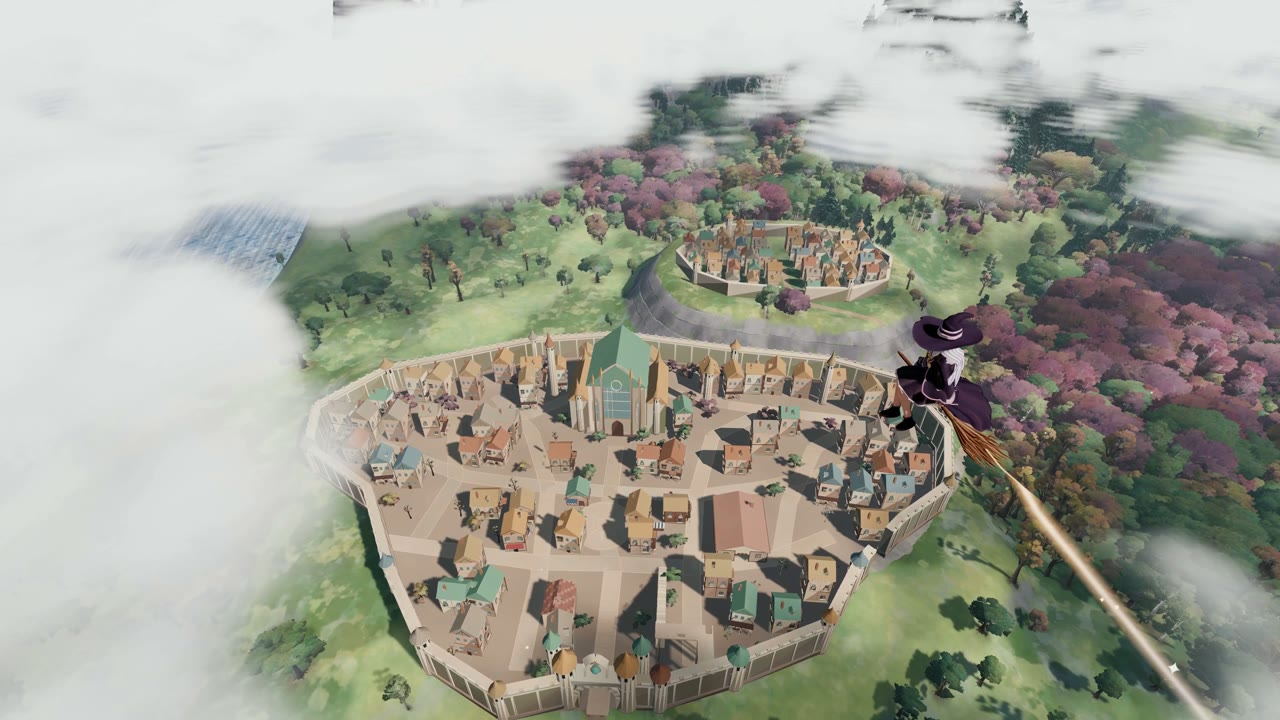
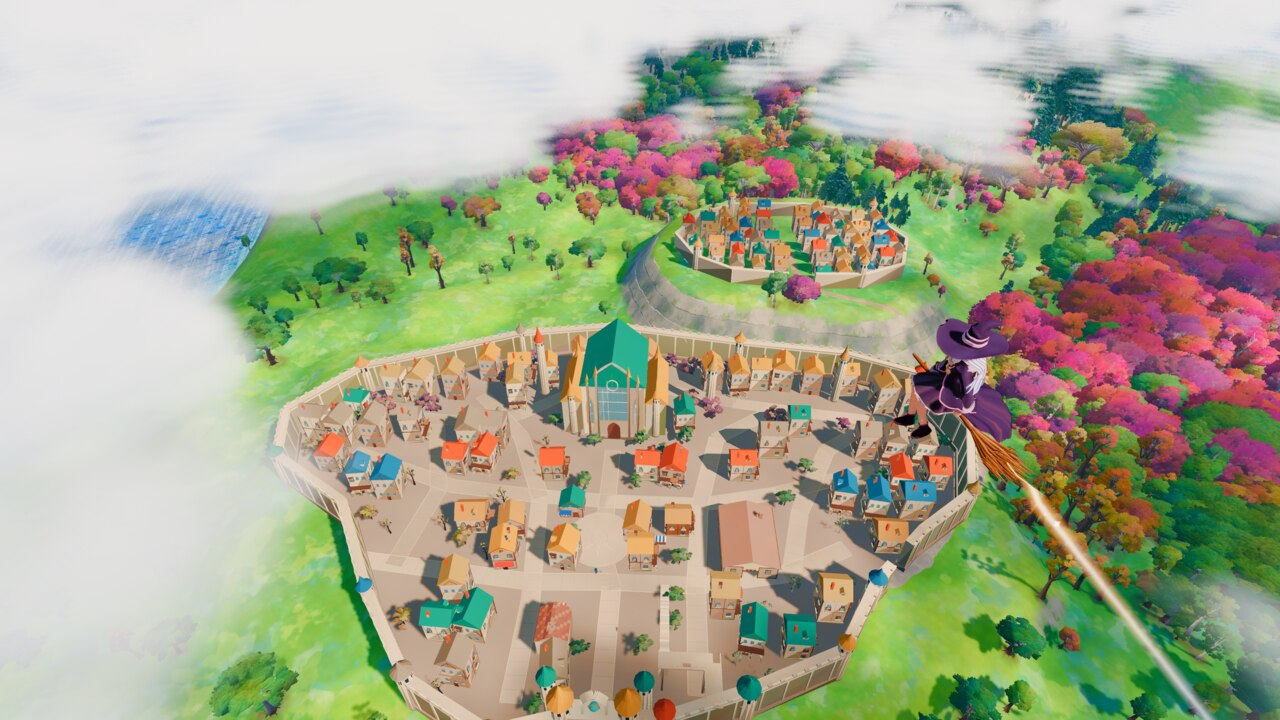
Tune daylight and landscape colours and publish the playable web build

diff --git a/src/render/post.js b/src/render/post.js
@@ -166,7 +166,7 @@ void main() {
 const GRADE_FRAG = /* glsl */`
 uniform sampler2D tDiffuse;
 uniform vec3 uLift, uGain, uVigCol, uFlash;
-uniform float uSat, uContrast, uVig, uGradeOn, uVib, uSharp, uSatKnee;
+uniform float uSat, uContrast, uMidLift, uVig, uGradeOn, uVib, uSharp, uSatKnee;
 uniform vec3 uShTint;
 uniform vec2 uTexel;
 varying vec2 vUv;
@@ -191,14 +191,23 @@ void main() {
   if (uGradeOn > 0.5) {
     c = uGain * (c + uLift * (1.0 - c));
     float l = dot(c, vec3(0.2126, 0.7152, 0.0722));
-    float sat = max(c.r, max(c.g, c.b)) - min(c.r, min(c.g, c.b));
-    c = mix(vec3(l), c, uSat + uVib * (1.0 - sat) * (1.0 - sat));
-    // saturation knee (look round): the loudest colours (pure vermilion, grass green) are pulled back, muted ones kept
-    c = mix(vec3(l), c, 1.0 - uSatKnee * smoothstep(0.3, 0.85, sat));
+    float hi = max(c.r, max(c.g, c.b)), lo = min(c.r, min(c.g, c.b));
+    float chroma = hi - lo;
+    // Pastel flowers, grass and sky gain the most colour. Taper the gain on
+    // bright peach tones (skin), near-white silver hair and sunlit cloud tops.
+    float peach = smoothstep(.018, .105, c.r - c.g) * smoothstep(.0, .06, c.g - c.b)
+                * smoothstep(.40, .68, l) * (1.0 - smoothstep(.28, .51, chroma));
+    float mids = smoothstep(.035, .15, l) * (1.0 - smoothstep(.85, .985, l));
+    float quiet = 1.0 - smoothstep(.08, .65, chroma);
+    float scale = 1.0 + (uSat - 1.0 + uVib * quiet) * mids * (1.0 - .9 * peach);
+    scale *= 1.0 - uSatKnee * smoothstep(.36, .9, chroma);
+    // Increase chroma along one hue ray, only as far as both bounds of sRGB allow.
+    float room = min(l / max(l - lo, .0001), (1.0 - l) / max(hi - l, .0001));
+    c = mix(vec3(l), c, min(scale, max(1.0, room)));
     // Shape luminance around middle grey, leaving black and white fixed.
     // The same brightness adjustment on all channels keeps blush and roof tiles in hue.
     float lum = clamp(dot(c,vec3(.2126,.7152,.0722)),0.,1.);
-    float delta = 4.*(uContrast-1.)*lum*(1.-lum)*(lum-.5);
+    float delta = lum*(1.-lum)*(4.*(uContrast-1.)*(lum-.5) + uMidLift*(2.-lum));
     if(delta<0.) c *= 1.+delta/max(.0001,lum);
     else c += (1.-c)*delta/max(.0001,1.-lum);
     // split tone: the land's colour sinks into the shadows only; mid-tones (skin) and whites (the kosode) stay clean
@@ -269,10 +278,10 @@ export const GRADES = {
   // vib = vibrance: extra saturation for the muted colours only (skin and already-vivid colours are left alone)
   // knee (look round) = how much the loudest colours are pulled back; gain warms the lights, sh cools the darks; lift is
   // kept tiny so the darks stay dark (a raised black was half of the old flat look); the vignette is the faintest touch
-  neutral: { lift: [0, 0, 0], gain: [1, 1, 1], sh: [1, 1, 1], sat: 1, vib: 0, knee: 0, contrast: 1, vig: 0, vigCol: [1, 1, 1] },
-  sun: { lift: [0.0, 0.002, 0.008], gain: [1.005, 1.0, 0.995], sh: [0.98, 0.995, 1.03], sat: 1.0, vib: 0.05, knee: 0.15, contrast: 1.25, vig: 0.12, vigCol: [0.86, 0.9, 0.98] },
-  dusk: { lift: [0.012, 0.0, 0.024], gain: [1.025, 0.985, 0.96], sh: [0.99, 0.95, 1.06], sat: 1.0, vib: 0.07, knee: 0.25, contrast: 1.19, vig: 0.18, vigCol: [0.8, 0.66, 0.86] },
-  night: { lift: [0.0, 0.006, 0.02], gain: [1.01, 1.0, 0.99], sh: [0.95, 0.98, 1.08], sat: 1.0, vib: 0.06, knee: 0.2, contrast: 1.06, vig: 0.22, vigCol: [0.62, 0.68, 0.9] },
+  neutral: { lift: [0, 0, 0], gain: [1, 1, 1], sh: [1, 1, 1], sat: 1, vib: 0, knee: 0, contrast: 1, midLift: 0, vig: 0, vigCol: [1, 1, 1] },
+  sun: { lift: [0.0, 0.002, 0.008], gain: [1.005, 1.0, 0.995], sh: [0.98, 0.995, 1.03], sat: 1.49, vib: 0.65, knee: 0.14, contrast: 1.22, midLift: .07, vig: 0.12, vigCol: [0.86, 0.9, 0.98] },
+  dusk: { lift: [0.012, 0.0, 0.024], gain: [1.025, 0.985, 0.96], sh: [0.99, 0.95, 1.06], sat: 1.31, vib: 0.37, knee: 0.15, contrast: 1.20, midLift: .04, vig: 0.18, vigCol: [0.8, 0.66, 0.86] },
+  night: { lift: [0.0, 0.006, 0.02], gain: [1.01, 1.0, 0.99], sh: [0.95, 0.98, 1.08], sat: 1.09, vib: 0.13, knee: 0.16, contrast: 1.06, midLift: 0, vig: 0.22, vigCol: [0.62, 0.68, 0.9] },
 };
 
 class ScenePass extends Pass {
@@ -433,7 +442,7 @@ export function createPipeline(renderer, scene, camera, opt) {
     vertexShader: FS_VERT, fragmentShader: GRADE_FRAG, depthTest: false, depthWrite: false,
     uniforms: { tDiffuse: { value: null }, uLift: { value: new THREE.Vector3() }, uGain: { value: new THREE.Vector3(1, 1, 1) },
       uVigCol: { value: new THREE.Vector3(1, 1, 1) }, uFlash: { value: new THREE.Color(0, 0, 0) },
-      uSat: { value: 1 }, uContrast: { value: 1 }, uVig: { value: 0 }, uGradeOn: { value: 1 },
+      uSat: { value: 1 }, uContrast: { value: 1 }, uMidLift: { value: 0 }, uVig: { value: 0 }, uGradeOn: { value: 1 },
       uVib: { value: 0 }, uSatKnee: { value: 0 }, uTone: { value: opt.tone ?? 1 }, uToneExp: { value: 1.08 }, uToneCt: { value: 1.22 }, uToneSat: { value: 1.08 }, uShTint: { value: new THREE.Vector3(1, 1, 1) }, uSharp: { value: opt.sharpen ?? 0.6 }, uTexel: { value: new THREE.Vector2(1, 1) },
       uPre: { value: 0 } },
   });

diff --git a/src/world/flora/grass.js b/src/world/flora/grass.js
@@ -16,7 +16,7 @@ import { ATLAS_HALF } from '../../data/atlas.js';
 import * as THREE from 'three';
 import { toonGradient, hookMaterial } from '../../core/mats.js';
 import { POI } from '../../data/world.js';
-import { GROUND_TINT_GLSL, GRASS_TOP } from '../terrain/shader.js';
+import { GROUND_TINT_GLSL, GRASS_TOP, MEADOW } from '../terrain/shader.js';
 import { plotGLSL } from '../terrain/paddyLayout.js';
 import { flowerPatch, flowerVertex } from './meadowFlowers.js';
 import { BELL } from '../../data/bellcrown.js';
@@ -109,11 +109,11 @@ GG gGround(vec2 root, bool flower) {
   float wNight = smoothstep(0.56, 0.86, tv);
   float wDusk = max(0.0, 1.0 - wSun - wNight);
   // ground colour, exactly as the terrain paints it
-  vec3 gSun = mix(${lin(0x617e55)}, ${lin(0x90ae72)}, smoothstep(0.36, 0.64, n1));
-  gSun = mix(gSun, ${lin(0xb4bc7b)}, smoothstep(0.58, 0.8, n2) * 0.55);
-  gSun = mix(gSun, ${lin(0x597d60)}, smoothstep(0.55, 0.78, n0) * 0.45);
-  gSun = mix(gSun, ${lin(0x65937a)}, smoothstep(0.55, 0.72, n4) * 0.35);
-  gSun = mix(gSun, ${lin(0xb4bc7b)}, smoothstep(0.62, 0.75, n4 * 0.5 + n2 * 0.5) * 0.25);
+  vec3 gSun = mix(${MEADOW.sunDark}, ${MEADOW.sun}, smoothstep(0.36, 0.64, n1));
+  gSun = mix(gSun, ${MEADOW.sunLight}, smoothstep(0.58, 0.8, n2) * 0.55);
+  gSun = mix(gSun, ${MEADOW.sunDeep}, smoothstep(0.55, 0.78, n0) * 0.45);
+  gSun = mix(gSun, ${MEADOW.sunTeal}, smoothstep(0.55, 0.72, n4) * 0.35);
+  gSun = mix(gSun, ${MEADOW.sunLight}, smoothstep(0.62, 0.75, n4 * 0.5 + n2 * 0.5) * 0.25);
   vec3 gDusk = mix(${lin(0xa29a5c)}, ${lin(0xc8bb6a)}, smoothstep(0.36, 0.64, n1));
   gDusk = mix(gDusk, ${lin(0xa86a46)}, smoothstep(0.64, 0.8, n2) * 0.45);
   gDusk = mix(gDusk, ${lin(0x7c6a72)}, smoothstep(0.58, 0.8, n0) * 0.35);
@@ -121,7 +121,7 @@ GG gGround(vec2 root, bool flower) {
   gNight = mix(gNight, ${lin(0x274a4a)}, smoothstep(0.56, 0.78, n2) * 0.7);
   vec3 col = gSun * wSun + gDusk * wDusk + gNight * wNight;
   float hillW = exp(-dot(root - gHill.xy, root - gHill.xy) / (gHill.z * gHill.z));
-  col = mix(col, ${lin(0xb6b96c)}, hillW * 0.5 * smoothstep(0.35, 0.6, n2 + 0.2));
+  col = mix(col, ${MEADOW.hill}, hillW * 0.5 * smoothstep(0.35, 0.6, n2 + 0.2));
   col *= 0.9 + 0.12 * n3 + 0.08 * n4;
   // the terrain's large-scale tint (dry / lush, hollows, knolls, alpine): same inputs, so blades match the soil
   float curv = (gTex(gData, root + vec2(8.0, 0.0)).r + gTex(gData, root - vec2(8.0, 0.0)).r
@@ -436,14 +436,14 @@ vec3 gPos; vec3 gNrm; float gKill = 0.0;
   // converges on the colour the terrain paints under and beyond the blades (GRASS_TOP), so the hand-over has no line
   float clump = clumpN * 0.55 + cH * 0.45;
   // revision: fresher tips (green-white, not yellow), lighter cool roots: the olive came from yellow tips over near-black roots
-  vec3 tip = col * mix(vec3(.98, 1.13, .90), vec3(1.31, 1.35, 1.05), clump);
+  vec3 tip = col * mix(vec3(1.04, 1.11, 1.03), vec3(1.31, 1.34, 1.18), clump);
   tip *= mix(vec3(1.0),vec3(.74,1.05,.89),basal);
   tip *= mix(vec3(1.04, 1.0, 0.92), vec3(0.95, 1.0, 1.06), fract(cH * 5.3));
   float dryPick = fract(hA * 13.7);
   vec3 duskTip = dryPick < 0.45 ? ${lin(0xe0b450)} : dryPick < 0.75 ? ${lin(0xd0784a)} : ${lin(0xe8d08a)};
   tip = mix(tip, duskTip, wDusk * 0.85 * (1.0 - g.cropK));
   if (g.crop > 1.5 && g.crop < 2.5) tip = ${lin(0xf0d070)};
-  vec3 root0 = mix(col * vec3(0.44, 0.57, 0.63), col * vec3(0.66, 0.54, 0.44), wDusk);
+  vec3 root0 = mix(col * mix(vec3(0.44, 0.57, 0.63), vec3(0.64, 0.72, 0.84), wSun), col * vec3(0.66, 0.54, 0.44), wDusk);
   if (g.crop > 1.5 && g.crop < 2.5) root0 = ${lin(0x8a9a48)}; // wheat: green-gold stalk under a gold ear
   float tt = t * t;
   vGCol = mix(root0, tip, (g.crop > 1.5 && g.crop < 2.5) ? smoothstep(0.5, 0.72, t) : smoothstep(0.0, 1.0, t)) * (0.94 + 0.12 * aBlade.w);
@@ -452,8 +452,6 @@ vec3 gPos; vec3 gNrm; float gKill = 0.0;
   vGCol = mix(vGCol, vGCol * 1.2 + vec3(0.022, 0.026, 0.016), gSheen * t * 0.7);
   // far: the blade becomes a soft stroke of the ground colour, a little lighter toward its tip (never darker than the soil)
   vGCol = mix(vGCol, col * ${GRASS_TOP} * mix(0.98, 1.12, t) * (1.0 + 0.12 * gSheen), far * 0.9 * (1.0 - g.cropK));
-  // fresh but not loud: a touch of desaturation (sunlit slopes warm up through the key light, shade cools via the sky)
-  vGCol = mix(vec3(dot(vGCol, vec3(0.3, 0.55, 0.15))), vGCol, 0.9);
   vGCol = mix(vGCol, ${lin(0xe8f4ff)}, smoothstep(0.0, 0.6, g.sc.b) * 0.8);
   float pulse = 0.65 + 0.35 * sin(gTime * 0.9 + root.x * 0.05 + root.y * 0.04);
   vec3 veinC = mix(${lin(0x3de0c0)}, ${lin(0x9c7cff)}, smoothstep(0.3, 0.7, g.n.x));

diff --git a/src/world/terrain/shader.js b/src/world/terrain/shader.js
@@ -34,10 +34,10 @@ vec3 trGroundTint(vec3 col, float h, float curv, float n0, float n1, float n2, f
   // look round: the meadow as a painting: broad soft swells of lush cool green and sun-dried warm green, sunlit warm
   // crowns on the knolls, deeper cool green in the hollows
   float lush = smoothstep(0.3, 0.72, n2 * 0.6 + n1 * 0.4);
-  vec3 s = col * mix(vec3(1.06, 1.04, 0.9), vec3(0.88, 0.96, 0.97), lush);
+  vec3 s = col * mix(vec3(1.06, 1.04, 0.92), vec3(0.83, 1.01, 1.04), lush);
   s = mix(s, s * vec3(0.68, 0.86, 0.84), hollow * 0.7);
   s = mix(s, s * vec3(1.12, 1.08, 0.86), knoll * 0.5);
-  s = mix(s, ${lin(0xb2b468)} * (0.9 + 0.2 * n3), dryP * 0.3);
+  s = mix(s, ${lin(0xb7bf66)} * (0.9 + 0.2 * n3), dryP * 0.3);
   vec3 d = mix(col, col * vec3(0.7, 0.64, 0.7), hollow * 0.6);
   d = mix(d, d * vec3(1.12, 1.06, 0.92), dryP * 0.4);
   float ash = smoothstep(0.48, 0.68, n1 * 0.5 + n2 * 0.5 + knoll * 0.2);
@@ -134,13 +134,19 @@ vec3 trLand(vec3 c, float wd, float wn) {
 }
 `;
 
+// Both the actual blades and their distant terrain colour use these reflectances.
+export const MEADOW = {
+  sun: lin(0x8cc351), sunDark: lin(0x70a75b), sunLight: lin(0xb6ce69),
+  sunDeep: lin(0x55a475), sunTeal: lin(0x68ad7d), hill: lin(0xbac85b)
+};
+
 const C = {
-  sun: lin(0x90ae72), sunDark: lin(0x617e55), sunLight: lin(0xb4bc7b), sunDeep: lin(0x597d60), sunTeal: lin(0x65937a), hill: lin(0xb6b96c),
+  ...MEADOW,
   duskOchre: lin(0xa29a5c), duskGold: lin(0xc8bb6a), duskRed: lin(0xa86a46), duskPlum: lin(0x7c6a72),
   nightA: lin(0x2e3d4a), nightB: lin(0x222b38), nightTeal: lin(0x274a4a),
   sand: lin(0xf0dfae), sandB: lin(0xdcc690), sandWet: lin(0xb8a27a), seabed: lin(0x5e8c86),
   gravelA: lin(0xc9bda0), gravelB: lin(0xa39a86),
-  rock: lin(0xa29fa6), rockDark: lin(0x75717c), rockDusk: lin(0x8a7076), rockNight: lin(0x3e4152),
+  rock: lin(0xb8b6ab), rockDark: lin(0x7c8582), rockDusk: lin(0x8a7076), rockNight: lin(0x3e4152),
   snow: lin(0xf4f8ff), snowShade: lin(0xdde8fa),
   dirtA: lin(0xc6ab86), dirtB: lin(0xa58c6c), stoneA: lin(0xc2bcb0), stoneB: lin(0xa29c92), gravelW: lin(0xcfc6b3),
   paddyA: lin(0x9fdc5e), paddyB: lin(0x78c450), soilA: lin(0x9a6c46), soilB: lin(0x7a5236), grainA: lin(0xe2c35e), grainB: lin(0xc9a440),
@@ -232,8 +238,7 @@ float floralDrift = meadowRibbon(trP.xz,floralBroad,floralDetail);
 float floralWet = 1.0 - smoothstep(17.0,33.0,trRiver);
 float floralShade = smoothstep(.47,.70,floralBroad);
 float floralPick = smoothstep(.38,.62,texture2D(trNoise,trP.xz/52.0+.12).r);
-vec3 flowerTone = mix(vec3(.99,.70,.16),vec3(.94,.88,.73),floralPick);
-flowerTone = mix(flowerTone,vec3(.44,.43,.81),max(.86*floralShade,floralWet));
+vec3 flowerTone = meadowDayPetal(floralPick, floralShade, floralWet);
 flowerTone = mix(flowerTone,mix(vec3(.91,.22,.18),vec3(.96,.54,.15),floralPick),wDusk*(1.-.83*floralWet));
 flowerTone = mix(flowerTone,vec3(.43,.65,.79),wNight);
 float meadowRoom = smoothstep(3.15,5.5,trRoad)*smoothstep(9.5,13.,trRiver);

diff --git a/src/world/sky.js b/src/world/sky.js
@@ -176,7 +176,7 @@ function updateLampPools(cam, v, rdt) {
   box.x = ox; box.y = oz;
   LM.used = used; LM.bakes++;
 }
-const _grade = { lift: [0, 0, 0], gain: [0, 0, 0], sh: [1, 1, 1], sat: 1, vib: 0, knee: 0, contrast: 1, vig: 0, vigCol: [0, 0, 0] };
+const _grade = { lift: [0, 0, 0], gain: [0, 0, 0], sh: [1, 1, 1], sat: 1, vib: 0, knee: 0, contrast: 1, midLift: 0, vig: 0, vigCol: [0, 0, 0] };
 
 function lerpGrade(a, b, t, o) {
   for (let i = 0; i < 3; i++) {
@@ -186,6 +186,7 @@ function lerpGrade(a, b, t, o) {
     o.sh[i] = (a.sh?.[i] ?? 1) + ((b.sh?.[i] ?? 1) - (a.sh?.[i] ?? 1)) * t;
   }
   o.sat = a.sat + (b.sat - a.sat) * t; o.vib = (a.vib || 0) + ((b.vib || 0) - (a.vib || 0)) * t; o.knee = (a.knee || 0) + ((b.knee || 0) - (a.knee || 0)) * t; o.contrast = a.contrast + (b.contrast - a.contrast) * t; o.vig = a.vig + (b.vig - a.vig) * t;
+  o.midLift = a.midLift + (b.midLift - a.midLift) * t;
   return o;
 }
 
@@ -444,7 +445,7 @@ export const skySystem = {
     st.sun.intensity=SUN_INTENSITY*(1-overcast*.24)*weather.sunlight;
     // In clear daylight the sky fills the shaded facade. When the sun disappears
     // into stratus or below the horizon, the sky supplies a larger share of its light.
-    const daylightFill = .55 + .43 * overcast;
+    const daylightFill = .74 + .31 * overcast;
     st.hemi.intensity=(daylightFill+(1-daylightFill)*dark)*(1-.72*dark);
     U.mvHemiMul.value = st.hemi.intensity;
     pal('hemiSky', v, st.hemi.color);
@@ -468,7 +469,8 @@ export const skySystem = {
     st.shadow.update((G.player?.pos ? daylightFromVeil(veilAt(G.player.pos.x, G.player.pos.z)) : day)*weather.sunlight);
 
     // exposure (eye adaptation)
-    const target = (1+.09*dark)*_sc.exposure * (G.sky.exposure ?? 1) * (1 - rain * 0.12) * (1 + (st.ringBoost - 1) * 0.06);
+    const daylightExposure = 1 - .04 * weather.sunlight * (1 - .4 * overcast);
+    const target = daylightExposure*(1+.09*dark)*_sc.exposure * (G.sky.exposure ?? 1) * (1 - rain * 0.12) * (1 + (st.ringBoost - 1) * 0.06);
     st.exposure = st.exposure === 1 && !st._expInit ? target : damp(st.exposure, target, 1.8, rdt);
     st._expInit = true;
 
@@ -508,6 +510,7 @@ export const skySystem = {
     if (st.grade) g = GRADES[st.grade];
     else g = gradePhase < .5 ? lerpGrade(GRADES.sun, GRADES.dusk, smoothstep(.05,.5,gradePhase), _grade) : lerpGrade(GRADES.dusk, GRADES.night, smoothstep(.5,.92,gradePhase), _grade);
     gu.uLift.value.fromArray(g.lift); gu.uGain.value.fromArray(g.gain); gu.uVigCol.value.fromArray(g.vigCol); gu.uShTint.value.fromArray(g.sh || [1, 1, 1]);
+    gu.uMidLift.value = g.midLift;
     gu.uSat.value = g.sat; gu.uVib.value = g.vib || 0; gu.uSatKnee.value = g.knee || 0; gu.uContrast.value = g.contrast; gu.uVig.value = g.vig;
     gu.uGradeOn.value = post.flags.grade ? 1 : 0;
     gu.uFlash.value.copy(st.flashCol).multiplyScalar(fk * 0.45);

diff --git a/src/render/atmo.js b/src/render/atmo.js
@@ -11,9 +11,9 @@ import { VEIL, SUN_DIR, SUN_ANGULAR_RADIUS, MOON_ANGULAR_RADIUS } from '../world
 // v:            sunlit       early dusk    deep dusk     night
 const KEYS = [0, 0.38, 0.72, 1];
 const ROWS = {
-  skyZen:   { c: [0x267dcb, 0x546bad, 0x2e2a6c, 0x060a26], k: [1.05, 0.95, 0.7, 0.62] },
-  skyHor:   { c: [0xc1dfee, 0xf4c79f, 0xe58a84, 0x1a2452], k: [1.15, 1.1, 0.85, 0.62] },
-  fog:      { c: [0xc4dcec, 0xf3c39a, 0xb07a96, 0x17204a], k: [1.05, 1.0, 0.75, 0.6] },
+  skyZen:   { c: [0x288bc9, 0x546bad, 0x2e2a6c, 0x060a26], k: [1.05, 0.95, 0.7, 0.62] },
+  skyHor:   { c: [0x7bcde7, 0xf4c79f, 0xe58a84, 0x1a2452], k: [1.15, 1.1, 0.85, 0.62] },
+  fog:      { c: [0x77abc1, 0xf3c39a, 0xb07a96, 0x17204a], k: [1.05, 1.0, 0.75, 0.6] },
   // look round: a warmer key, and a much weaker sky fill (was k 1.25 / 1.3 / 1.9 / 3.2): the Sun (by day) and the Moon
   // key + lanterns (at night) shape the forms, the sky only fills the shade
   sunTint:  { c: [0xfff5eb, 0xffdfb7, 0xffc397, 0xff9a58], k: [1, 1, 1, 1] },
@@ -24,7 +24,7 @@ const ROWS = {
   cloudSh:  { c: [0x8faed1, 0x9d8cb5, 0x5e4682, 0x0e1430], k: [1.0, 0.95, 0.8, 0.5] },
   // look (v-look): multiplier on the ambient where the Sun does not reach -> coloured shadows (linear RGB, ~unit luminance):
   // clear blue in the meadow, violet-rose at dusk, deep indigo with a hint of teal at night
-  shadowTint: { lin: [[0.83, 0.93, 1.12], [0.94, 0.87, 1.10], [1.0, 0.86, 1.15], [0.82, 0.94, 1.19]] },
+  shadowTint: { lin: [[0.80, 0.98, 1.16], [0.94, 0.87, 1.10], [1.0, 0.86, 1.15], [0.82, 0.94, 1.19]] },
   // light the sunlit ground throws back up onto down- and side-facing surfaces (x the local sun colour)
   // night key: the cool light of the Moon wheel (look round), x the cel band, from the wheel's direction
   moonKey:  { c: [0x000000, 0x000000, 0x6c74c4, 0x86a2ff], k: [0, 0, 0.4, 0.64] },
@@ -37,7 +37,7 @@ const ROWS = {
 // stays at its authored value; the camera exposure keeps only a gentle 1.15 at night.
 // Bloom thresholds are soft-knee thresholds now (post.js), so strengths are higher than with the old hard cut.
 const SCALARS = [
-  [1.0, 0.42, 1.9, 0.42],
+  [1.0, 0.37, 2.05, 0.32],
   [1.0, 0.55, 1.6, 0.48],
   [1.0, 0.7, 1.1, 0.55],
   [1.15, 0.62, 1.0, 0.6],

diff --git a/src/world/flora/scatter.js b/src/world/flora/scatter.js
@@ -10,9 +10,9 @@ import { bellPaving } from '../../data/bellcrown.js';
 
 export const STRIDE = 16;
 const palette = values => values.map(value => new THREE.Color(value).toArray());
-const leaves = palette([0x779856, 0x8fab64, 0x74965b, 0xa1a868, 0x709566]);
+const leaves = palette([0x69a04f, 0x92b55a, 0x639451, 0xa5b557, 0x589761]);
 const crowns=Object.fromEntries(Object.entries(crownColors).map(([type,colors])=>[type,palette(colors)]));
-const petals = palette([0xe9d58e, 0xefd5bc, 0xc3a5ce, 0xe3bb71, 0xc5d8eb]);
+const petals = palette([0xf2cc62, 0xf1c3aa, 0xbf8bd8, 0xe9a54e, 0xaaccef]);
 const undergrowth = palette([0x859a56, 0x789d68, 0x93a76c, 0x739b5e]);
 const stone = palette([0xc1bca8, 0xadae9d, 0xc2bcab]);
 const neutral = [1, 1, 1];
@@ -93,12 +93,12 @@ export function scatter(world, density = 1) {
   }
   const lakeGroups=[
     [1817,-60,18,9,'birch',[0x9aba70,0xa4b779]],
-    [1661,-102,14,7,'maple1',[0xc17a54,0xc5915d,0xb5a15d]],
+    [1661,-102,14,7,'maple1',[0xcb7043,0xd38b45,0xc6a849]],
     [1747,25,11,7,'pine2',[0x456b67,0x53786d]],
     [1618,-31,6,3,'willow2',[0x91ab68,0xa6b978]],
     [1688,87,24,11,'birch',[0xa1b479,0x8eab65]],
     [1796,-189,30,13,'pine1',[0x516d6a,0x486260]],
-    [1568,-104,21,11,'maple1',[0xb88659,0xc79958]],
+    [1568,-104,21,11,'maple1',[0xc57a45,0xd4973f]],
     [1888,43,20,10,'willow1',[0x95ae67,0x839e65]]
   ];
   for(const [cx,cz,spread,count,key,pal] of lakeGroups){
@@ -131,7 +131,7 @@ export function scatter(world, density = 1) {
   // and slope. Their roots stay on the same four islands after the collapse.
   const reeds=palette([0x8f9d6d,0xa0a577,0x899d72]);
   const shoreFoliage=palette([0x76905e,0x849764,0x92a16b]);
-  const shoreFlowers=[palette([0xd7c299,0xe8d4a0]),palette([0xe3c3a4,0xc6a5ac]),palette([0xb4aaad,0xd4cbb4]),palette([0xcdd9bb,0xc6ccb3])];
+  const shoreFlowers=[palette([0xe5bc66,0xf1d594]),palette([0xf0b39a,0xcb92ad]),palette([0xb09ec5,0xe5ceb2]),palette([0xc8dfac,0xe0d0a5])];
   const lakeFloor=(x,z)=>trialViewHeight(x,z,floodedTrialHeight(x,z,world.baseHeightAt(x,z)),true);
   for(const [id,island] of TRIAL_LAKE.islands.entries()){
     let made=0;const want=Math.round((id===0?51:id===3?25:41)*(.65+density*.35));

diff --git a/src/index.template.html b/src/index.template.html
@@ -4,6 +4,11 @@
 <meta charset="utf-8">
 <meta name="viewport" content="width=device-width,initial-scale=1,maximum-scale=1,user-scalable=no">
 <title>魔女之旅</title>
+<link rel="icon" type="image/png" href="assets/textures/journey/elaina-icon.png">
+<meta name="description" content="扮演伊蕾娜，接受芙兰的试炼，骑扫帚穿过星痕湖与云海。免费在浏览器中游玩的《魔女之旅》非官方同人游戏。">
+<meta property="og:title" content="魔女之旅 · 骑帚旅行">
+<meta property="og:description" content="从森林小屋飞到魔法使之国。在浏览器开始一段骑帚旅程。">
+<meta property="og:image" content="https://weikezhang.cn/majo-no-tabitabi/preview.webp">
 <style>
   html, body { margin: 0; height: 100%; overflow: hidden; background: #05060d; color: #f3ead8;
     font-family: "PingFang SC", "Hiragino Sans GB", "Microsoft YaHei", "Noto Sans CJK SC", sans-serif;

diff --git a/src/world/water/glsl.js b/src/world/water/glsl.js
@@ -227,9 +227,9 @@ vec3 wShallow = ${lin(0x62e8d4)} * wSun + ${lin(0xf4b890)} * wDusk + ${lin(0x164
 vec3 wMid     = ${lin(0x1aaccc)} * wSun + ${lin(0xbc7490)} * wDusk + ${lin(0x0c2c46)} * wNight;
 vec3 wDeep    = ${lin(0x10528e)} * wSun + ${lin(0x553874)} * wDusk + ${lin(0x040e22)} * wNight;
 float wb1 = texture2D(wNoise, wP.xz / 83.0 + vec2(wt * 0.003, wt * 0.002)).b;
-wShallow=mix(wShallow,${lin(0x90c8a6)},basin*.86);
-wMid=mix(wMid,${lin(0x438d84)},basin*.79);
-wDeep=mix(wDeep,${lin(0x255a69)},basin*.88);
+wShallow=mix(wShallow,${lin(0x4cc69e)},basin*.86);
+wMid=mix(wMid,${lin(0x138f93)},basin*.79);
+wDeep=mix(wDeep,${lin(0x125674)},basin*.88);
 vec3 wBase = mix(wShallow, wMid, smoothstep(0.3, 3.5, wDepth));
 wBase = mix(wBase, wDeep, smoothstep(3.0, 14.0, wDepth + (wb1 - 0.5) * 3.0));
 wBase *= (0.9 + 0.2 * wb1)*mix(vec3(1.),vec3(.36,.48,.66),wAtmosphere.y);

diff --git a/src/world/builders/bellcrown.js b/src/world/builders/bellcrown.js
@@ -13,15 +13,15 @@ const H = BELL.y;
 const stone = mat.stone(0xd5c5ae),
   light = mat.plaster(0xeee1c5),
   foot = mat.stone(0xad9685);
-const tile = [0xb89661, 0xaf7851, 0x729c8a, 0xc79857, 0x758f9a, 0xa39887, 0xbd9e6a].map((c) => mat.tile(c));
+const tile = [0xc99456, 0xbf5b38, 0x358878, 0xd79d4c, 0x42768e, 0xa39179, 0xcaa15d].map((c) => mat.tile(c));
 const plaster = [light, mat.plaster(0xe7c5a4), mat.plaster(0xd6b398), mat.plaster(0xe2c7a5)];
 const wood = mat.wood(0x724e40),
   trim = mat.wood(0xac7955),
   dark = mat.paint(0x343940);
 const glass = mat.paint(0x71919a),
   brass = mat.metal(0xcd9a51),
-  blue = mat.cloth(0x485e7a),
-  red = mat.cloth(0xa64d42);
+  blue = mat.cloth(0x385d86),
+  red = mat.cloth(0xb24c42);
 const pave = mat.stone(0xb29d8c),
   street = mat.stone(0xc7b39b),
   border = mat.stone(0xe1caa4);

diff --git a/src/world/flora/meadowFlowers.js b/src/world/flora/meadowFlowers.js
@@ -111,10 +111,8 @@ vec3 gPos=vec3(0.0,-1.e4,0.0),gNrm=vec3(0.,1.,0.);
     gPos.xz+=rot*(form.xz*grow*(.96+.32*aBlade.w))+len*t2*(wind*.54+rot*vec2(.09,.02));
     gPos.y+=form.y*len*(1.-flatten*.68);
     vec3 green=mix(field.rgb*vec3(.53,.67,.54),vec3(.10,.26,.12),.36);
-    vec3 butter=vec3(.99,.70,.16), ivory=vec3(.94,.88,.73), lilac=vec3(.48,.39,.80);
     float mixColour=smoothstep(.38,.62,gN(root/52.+.12).r);
-    vec3 petal=mix(butter,ivory,mixColour*(1.-forest*.46));
-    petal=mix(petal,mix(lilac,vec3(.37,.51,.86),mixColour),max(forest*.86,wet));
+    vec3 petal=meadowDayPetal(mixColour,forest,wet);
     petal=mix(petal,mix(vec3(.91,.22,.18),vec3(.96,.54,.15),mixColour),dusk*(1.-.83*wet));
     vec3 moon=mix(vec3(.43,.74,.82),vec3(.58,.48,.86),mixColour);
     petal=mix(petal,moon,night);

diff --git a/src/render/veilhook.js b/src/render/veilhook.js
@@ -440,7 +440,7 @@ const FOG = /* glsl */`
   float mvFL = max( dot( mvFc, vec3( 0.2126, 0.7152, 0.0722 ) ), 1e-3 );
   float mvTL = mix( mvL, mvFL, 0.35 );
   float mvDuskW = saturate( 4.0 * mvFv * ( 1.0 - mvFv ) );
-  vec3 mvDepthTint = mix( mix( vec3( 0.62, 0.8, 1.18 ), vec3( 1.15, 0.86, 0.66 ), mvDuskW ), vec3( 0.78, 0.62, 1.25 ), smoothstep( 0.75, 1.0, mvFv ) );
+  vec3 mvDepthTint = mix( mix( vec3( 0.58, 0.87, 1.24 ), vec3( 1.15, 0.86, 0.66 ), mvDuskW ), vec3( 0.78, 0.62, 1.25 ), smoothstep( 0.75, 1.0, mvFv ) );
   vec3 mvAerC = ( vec3( mvTL ) * 0.45 + mvFc * 0.55 * mvTL / mvFL ) * mvDepthTint;
   gl_FragColor.rgb = mix( gl_FragColor.rgb, mvAerC, mvAer * 0.48 );
   // ground mist pooling in the low ground and valleys, patchy and slowly drifting; thickest at dusk

diff --git a/src/world/flora/travel-canopy.js b/src/world/flora/travel-canopy.js
@@ -32,12 +32,12 @@ const keys = {
   green: ['broad1', 'broad2', 'broad3', 'broad4', 'broad5', 'birch']
 };
 export const crownColors = {
-  gold: [0xd4aa55, 0xc69c4b, 0xc5a45a, 0xd3b568],
-  wine: [0x985d66, 0x8d6373, 0x946979, 0xa06763],
-  copper: [0xb7995b, 0xb28b5d, 0xaf8b64, 0xbaa363],
+  gold: [0xe2b445, 0xd79232, 0xcfa74b, 0xe6c663],
+  wine: [0xb14c65, 0x965775, 0xa95273, 0xb85c54],
+  copper: [0xd29a48, 0xc07f48, 0xb77d53, 0xc8aa50],
   silver: [0x95a787, 0xa6b69a, 0xa7b184, 0x90aa80],
-  pine: [0x385c52, 0x4a6856, 0x4c7262, 0x4e6861],
-  green: [0x72925a, 0x91a669, 0x7a975c, 0x66885b, 0x86a063]
+  pine: [0x386959, 0x4b7656, 0x4b8167, 0x50776b],
+  green: [0x73a352, 0x9db85a, 0x7aaa58, 0x5c945c, 0x90b25b]
 };
 function localStand(x, z) {
   let density = 0,
